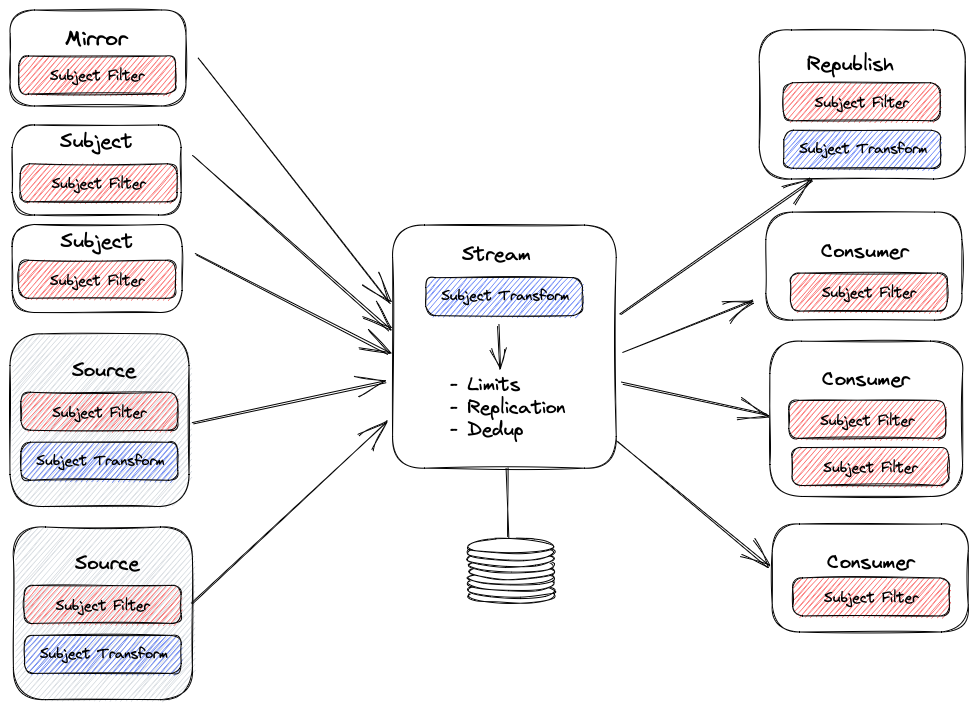
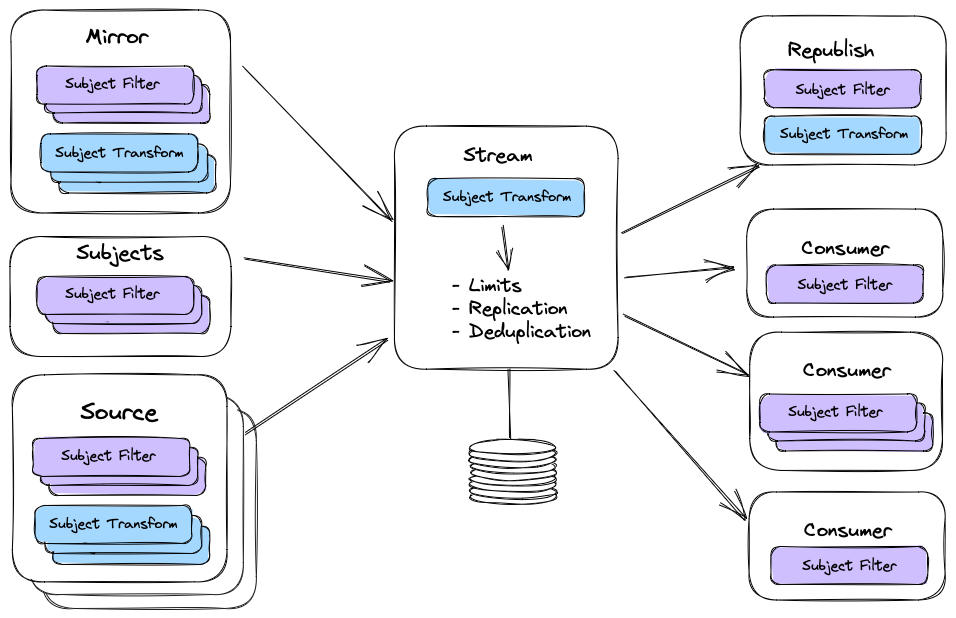
Add support for multisubject filtering and transformation in sources and mirror introduced in https://github.com/nats-io/nats-server/pull/4354

diff --git a/adr/ADR-36.md b/adr/ADR-36.md
@@ -19,20 +19,84 @@ See [ADR-30](ADR-30.md) for Core NATS subject mapping and a description of the a
 
 ## Features introduced
 
-The new features introduced by the [PR](https://github.com/nats-io/nats-server/pull/3814) allow the application of subject mapping transformations in two places in the space configuration:
+The new features introduced by version 2.10 of the NATS server allow the application of subject mapping transformations in multiple places in the stream configuration:
 
+- You can apply a subject mapping transformation as part of a Stream mirror.
 - You can apply a subject mapping transformation as part of a Stream source.
   - Amongst other use cases, this enables the ability to do sourcing between KV bucket  (as the name of the bucket is part of the subject name in the KV bucket streams, and therefore has to be transformed during the sourcing as the name of the sourcing bucket is different from the name(s) of the bucket(s) being sourced).
 - You can apply a subject mapping transformation at the ingres (input) of the stream, meaning after it's been received on Core NATS, or mirrored or sourced from another stream, and before limits are applied (and it gets persisted). This subject mapping transformation is only that, it does not filter messages, it only transforms the subjects of the messages matching the subject mapping source.
   - This enables the ability to insert a partition number as a token in the message subjects.
+- You can also apply a subject mapping transformation as part of the re-publishing of messages.
+
+Subject mapping transformation can be seen as an extension of subject filtering, there can not be any subject mapping transformation without an associated subject filter.
+
+A subject filtering and mapping transform is composed of two parts: a subject filter (the 'source' part of the transform) and the destination transform (the 'destination' part of the transform). An empty (i.e. `""`) destination transform means _NO transformation_ of the subject.
 
 ![](images/stream-transform.png)
 
-In addition, it is now possible to source from the same stream more than once.
+Just like streams and consumers can now have more than one single subject filter, mirror and sources can have more than one set of subject filter and transform destination.
 
-For example if a stream contains messages on subjects "foo", "bar" and "baz" and you want to source only "foo" and "bar" from that stream you could stream twice from that stream once with the "foo" subject filter and a second time with the "bar" subject filter.
+Just like with consumers you can either specify a single subject filter and optional subject transform destination or an array of subject transform configs composed of a source filter and optionally empty transform destination.
 
-E.g.
+In addition, it is now possible to source not just from different streams but also from the same stream more than once.
+
+If you define a single source with multiple subject filters and transforms, in which case the ordering of the messages is guaranteed to be preserved, there can not be any overlap between the filters. If you define multiple sources from the same stream, subject filters can overlap between sources thereby making it possible to duplicate messages from the sourced stream, but the order of the messages between the sources is not guaranteed to be preserved.
+
+For example if a stream contains messages on subjects "foo", "bar" and "baz" and you want to source only "foo" and "bar" from that stream you could specify two subject filters and transforms in a single source, or you can source twice from that stream once with the "foo" subject filter and a second time with the "bar" subject filter.
+
+## Stream config structure changes
+
+From the user's perspective these features manifest themselves as new fields in the Stream Configuration request and Stream Info response messages.
+
+In Mirror and Sources :
+- Additional `"subject_transform_dest"` field and `"subject_transforms"` array in the `"sources"` array and in `"mirror"`. Note that if you use the `"subject_transforms"` array then you can _NOT_ also use either of the single string subject filter or transformation destination fields.
+
+At the top level of the Stream Config:
+- Additional `"subject_transform"` field in Stream Config containing two strings: `"src"` and `"dest"`
+
+## Examples
+
+A stream that mirrors the `sourcedstream` stream using two subject filters and transform (in this example `foo` is transformed, but `bar` is not):
+
+```JSON
+{
+  "name": "sourcingstream",
+  "retention": "limits",
+  "max_consumers": -1,
+  "max_msgs_per_subject": -1,
+  "max_msgs": -1,
+  "max_bytes": -1,
+  "max_age": 0,
+  "max_msg_size": -1,
+  "storage": "file",
+  "discard": "old",
+  "num_replicas": 1,
+  "duplicate_window": 120000000000,
+  "mirror":
+  {
+    "name": "sourcedstream",
+    "subject_transforms": [
+      {
+        "src": "foo",
+        "dest": "foo-transformed"
+      },
+      {
+        "src": "bar",
+        "dest": ""
+      }
+    ]
+  },
+  "sealed": false,
+  "deny_delete": false,
+  "deny_purge": false,
+  "allow_rollup_hdrs": false,
+  "allow_direct": false,
+  "mirror_direct": false
+}
+```
+
+A stream that sources from the `sourcedstream` stream twice, each time using a single subject filter and transform:
+
 ```JSON
 {
   "name": "sourcingstream",
@@ -50,11 +114,13 @@ E.g.
   "sources": [
     {
       "name": "sourcedstream",
-      "filter_subject": "foo"
+      "filter_subject": "foo",
+      "subject_transform_dest": "foo-transformed"
     },
     {
       "name": "sourcedstream",
-      "filter_subject": "bar"
+      "filter_subject": "bar",
+      "subject_transform_dest": "bar-transformed"
     }
   ],
   "sealed": false,
@@ -66,12 +132,8 @@ E.g.
 }
 ```
 
-From the user's perspective these features manifest themselves as new fields in the Stream Configuration request and Stream Info response messages.
+A Stream that sources from 2 streams and has a subject transform:
 
-- Additional `"subject_transform_dest"` field in objects in the `"sources"` array of the Stream Config
-- Additional `"subject_transform"` field in Stream Config containing two strings: `"src"` and `"dest"`
-
-E.g.
 ```JSON
 {
   "name": "foo",
@@ -99,13 +161,16 @@ E.g.
     },
     {
       "name": "source2",
-      "filter_subject": "stream2.foo.>",
-      "subject_transform_dest": "foo.>"
-    },
-    {
-      "name": "source2",
-      "filter_subject": "stream2.bar.>",
-      "subject_transform_dest": "bar.>"
+      "subject_transforms": [
+        {
+          "src": "stream2.foo.>",
+          "dest": "foo2.>"
+        },
+        {
+          "src": "stream2.bar.>",
+          "dest": "bar2.>"
+        }
+      ]
     }
   ],
   "subject_transform": {
@@ -122,6 +187,6 @@ E.g.
 ```
 ## Client implementation PRs
 
-- [jsm.go](https://github.com/nats-io/jsm.go/pull/436)
-- [nats.go](https://github.com/nats-io/nats.go/pull/1200)
-- [natscli](https://github.com/nats-io/natscli/pull/695)
+- [jsm.go](https://github.com/nats-io/jsm.go/pull/436) [and](https://github.com/nats-io/jsm.go/pull/461)
+- [nats.go](https://github.com/nats-io/nats.go/pull/1200) [and](https://github.com/nats-io/nats.go/pull/1359)
+- [natscli](https://github.com/nats-io/natscli/pull/695) [and](https://github.com/nats-io/natscli/pull/845)
